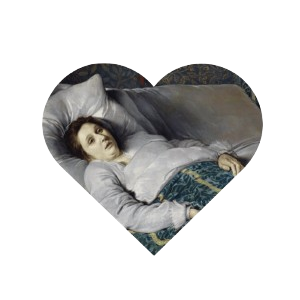
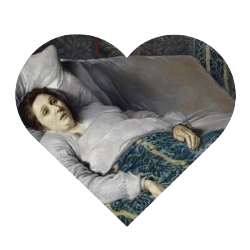
effects

diff --git a/index.html b/index.html
@@ -1072,7 +1072,7 @@
             
             // Image file mappings
             const backgroundImages = {
-                crying: 'crying.png',
+                crying: 'crying.jpeg',
                 eagle: 'eagle.png', 
                 victorian: 'victorian.png',
                 food: 'food.png'
